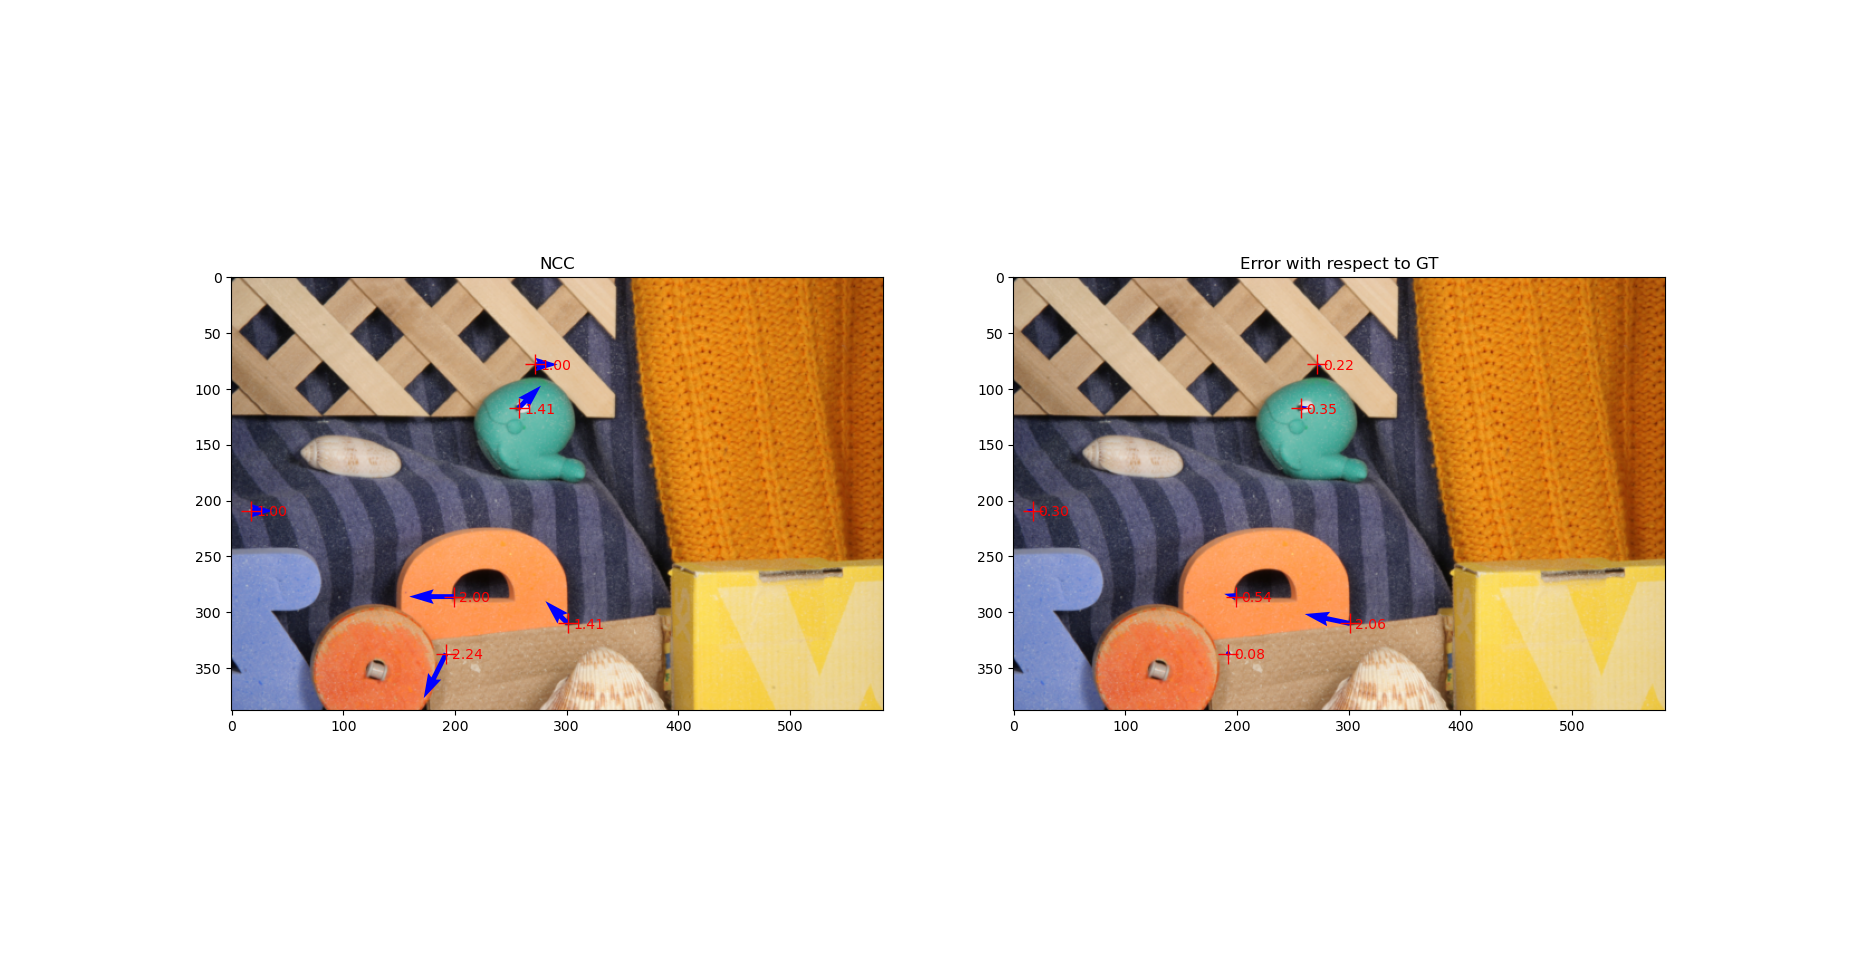
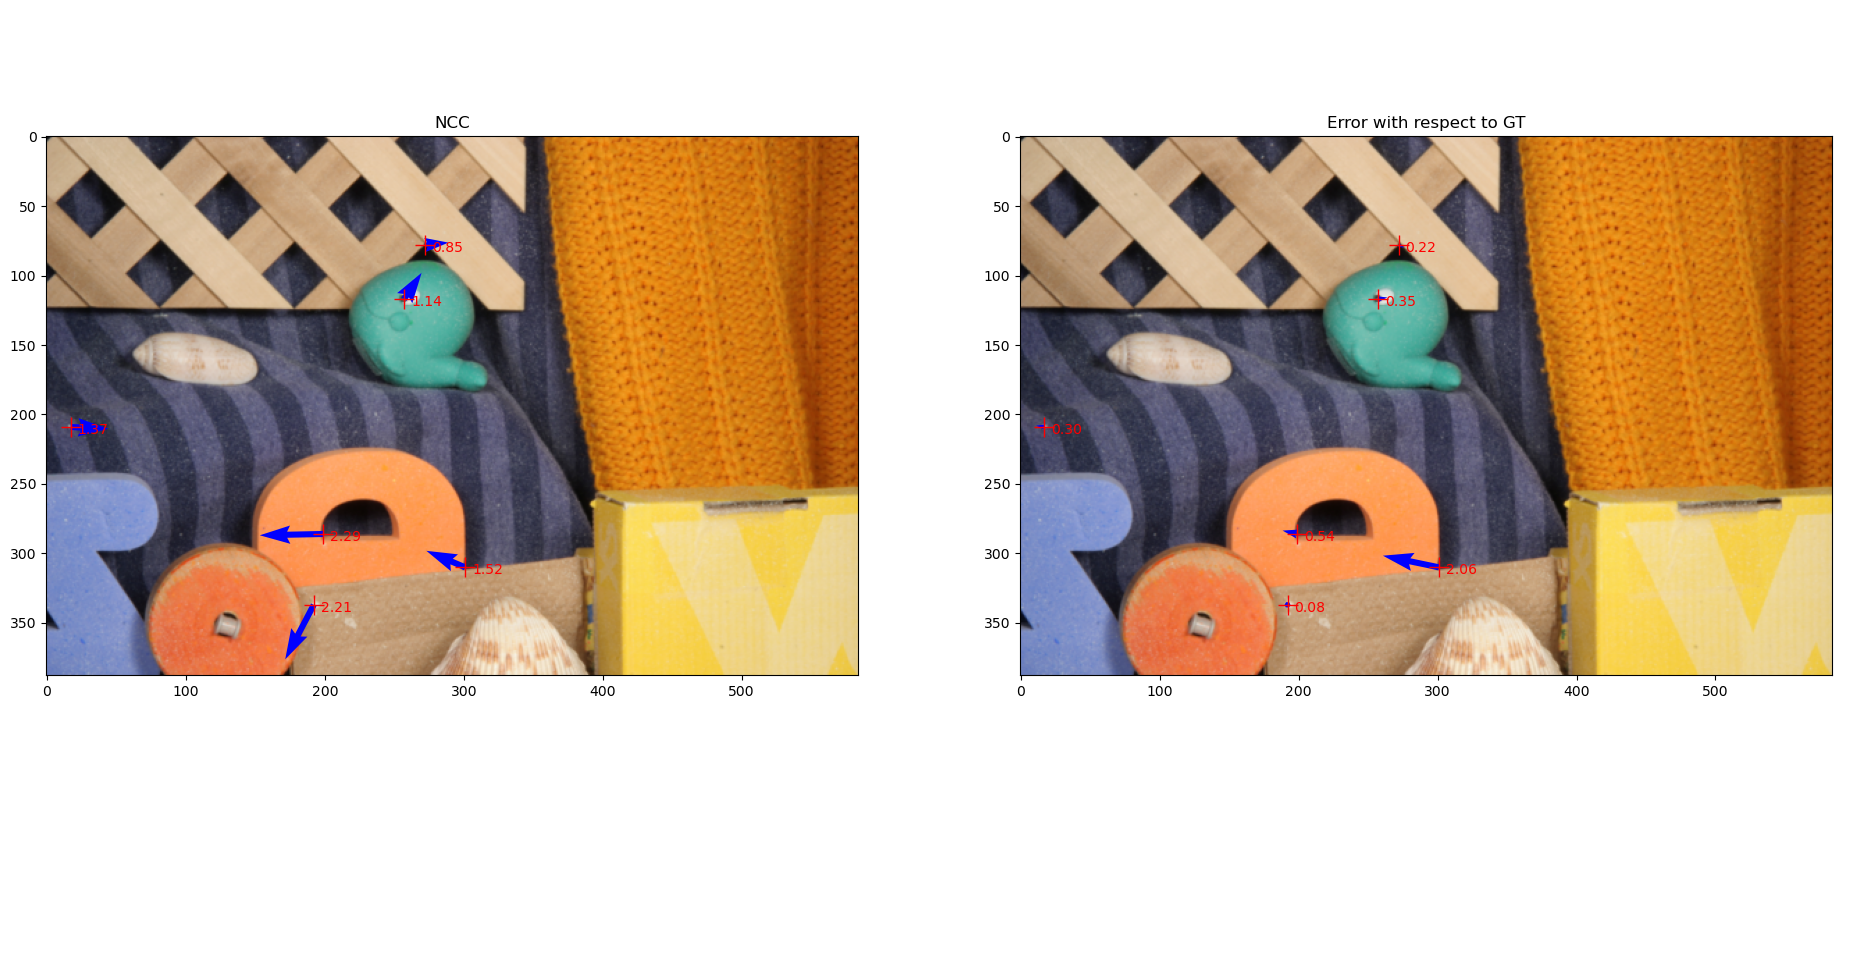
memoria

diff --git a/p6/utils/utils.py b/p6/utils/utils.py
@@ -281,6 +281,81 @@ def lucas_kanade_refinement(img1, img2, points, initial_flows, patch_half_size=5
     return refined_flows
 
 
+def lucas_kanade_subregion(img1, img2, points, initial_flows, region, patch_half_size=5, epsilon=1e-2, max_iterations=100, det_threshold=1e-5):
+    x_min, y_min, x_max, y_max = region
+    img1_sub = img1[y_min:y_max, x_min:x_max]
+    img2_sub = img2[y_min:y_max, x_min:x_max]
+
+    print("img1_sub shape:", img1_sub.shape)
+    print("img1 shape:", img1.shape)
+
+    # Gradientes de la primera imagen
+    Ix, Iy = np.gradient(img1)
+    refined_flows = np.zeros_like(initial_flows)
+    for idx, (x, y) in enumerate(points):
+        u = initial_flows[idx]
+
+        # Ignorar puntos fuera de la sub-selección
+        if not (x_min + patch_half_size <= x <= x_max - patch_half_size and y_min + patch_half_size <= y <= y_max - patch_half_size):
+            refined_flows[idx] = u
+            continue
+
+        # Convertir a coordenadas relativas a la sub-selección
+        x_rel, y_rel = x - x_min, y - y_min
+
+        # Extraer parche centrado en el punto
+        x_start, x_end = int(x_rel - patch_half_size), int(x_rel + patch_half_size + 1)
+        y_start, y_end = int(y_rel - patch_half_size), int(y_rel + patch_half_size + 1)
+
+        Ix_patch = Ix[y_start:y_end, x_start:x_end].flatten()
+        Iy_patch = Iy[y_start:y_end, x_start:x_end].flatten()
+        I0_patch = img1_sub[y_start:y_end, x_start:x_end].flatten()
+
+        # Matriz A
+        Ix2 = np.sum(Ix_patch ** 2)
+        Iy2 = np.sum(Iy_patch ** 2)
+        IxIy = np.sum(Ix_patch * Iy_patch)
+
+        A = np.array([
+            [Ix2, IxIy],
+            [IxIy, Iy2]
+        ])
+
+        # Verificar si A está mal condicionada
+        if np.linalg.det(A) < det_threshold:
+            refined_flows[idx] = u  # Conservar el flujo inicial
+            continue
+
+        # Refinamiento iterativo
+        for i in range(max_iterations):
+            x_coords, y_coords = np.meshgrid(
+                np.arange(x_start, x_end) + u[0],
+                np.arange(y_start, y_end) + u[1]
+            )
+
+            points_to_interpolate = np.vstack((y_coords.ravel(), x_coords.ravel())).T
+            I1_patch = int_bilineal(img2_sub, points_to_interpolate)
+
+            It = I1_patch - I0_patch
+
+            b = -np.array([
+                np.sum(Ix_patch * It),
+                np.sum(Iy_patch * It)
+            ])
+
+            delta_u = np.linalg.inv(A) @ b
+            u += delta_u
+
+            if np.linalg.norm(delta_u) < epsilon:
+                break
+
+        refined_flows[idx] = u
+
+    return refined_flows
+
+
+
+
 def compute_seed_flow(img1_gray, img2_gray, points_selected, template_size_half, searching_area_size):
     """
     Calcula el flujo inicial usando NCC para los puntos seleccionados.

diff --git a/p6/main.py b/p6/main.py
@@ -86,14 +86,31 @@ if __name__ == '__main__':
     ##########################################################################################
     # OPTIONAL
     ##########################################################################################
+    region = (x_min, y_min, x_max, y_max) = (50, 140, 190, 210)
+    refined_flows = utils.lucas_kanade_subregion(
+        img1=img1_gray,
+        img2=img2_gray,
+        points=points_selected,
+        initial_flows=seed_optical_flow_sparse,
+        region=region,
+        patch_half_size=5,
+        epsilon=1e-2,
+        max_iterations=100,
+        det_threshold=1e-5
+    )
+
+    img1_sub = img1[region[1]:region[3], region[0]:region[2]]
+    img2_sub = img2[region[1]:region[3], region[0]:region[2]]
+
     flow_gt_dense = utils.convert_to_dense_flow(points_selected, flow_gt, img1_gray.shape)
+    flow_gt_dense_sub = flow_gt_dense[region[1]:region[3], region[0]:region[2]]
+
     flow_refined_dense = utils.convert_to_dense_flow(points_selected, refined_flows, img1_gray.shape)
+    flow_refined_dense_sub = flow_refined_dense[region[1]:region[3], region[0]:region[2]]
+
+    flow_error_dense_sub = np.linalg.norm(flow_gt_dense_sub - flow_refined_dense_sub, axis=2)
 
     # Calcular el error denso
     flow_error_dense = utils.compute_dense_flow_error(flow_gt_dense, flow_refined_dense)
 
-    print("flow_gt_dense shape:", flow_gt_dense.shape)
-    print("flow_refined_dense shape:", flow_refined_dense.shape)
-    print("flow_error_dense shape:", flow_error_dense.shape)
-
-    plot_utils.visualize_dense_flow(img1_gray, img2_gray, flow_gt_dense, flow_refined_dense, flow_error_dense)
+    plot_utils.visualize_dense_flow(img1_sub, img2_sub, flow_gt_dense_sub, flow_refined_dense_sub, flow_error_dense_sub)

diff --git a/p6/Laboratory6.md b/p6/Laboratory6.md
@@ -1,5 +1,54 @@
 # Lab 6: Optical flow.
 
 
-## 2. 3D reconstruction from 3D calibrated stereo using fish-eyes
+## 2.1 Normalized Cross Correlation
+```python
+def seed_estimation_NCC_single_point(img1_gray, img2_gray, i_img, j_img, patch_half_size: int = 5, searching_area_size: int = 100):
+```
+Se utiliza para estimar optical flor inicial entre dos imágenes en escala de grises en un punto específico. Basado en la correlación cruzada normalizada (NCC) para encontrar la mejor coincidencia de un parche (pequeña ventana de píxeles)
+
+1. Extracción del parche de la primera imagen
+2. Definición de la región de búsqueda en la segunda imagen (mayor que el parche)
+3. Cálculo de la correlación cruzada normalizada (NCC). Que compara el parche de la primera imagen con todas las psoibles ubicaciones dentro de la región de bśuqueda
+4. Encontrar la mejor coincidencia
+5. Calculo optical flow
+
+
+## 2.2 Lucas Kanade Refinement
+```python
+def lucas_kanade_refinement(img1, img2, points, initial_flows, patch_half_size=5, epsilon=1e-2, max_iterations=100):
+```
+Se basa en la suposición de que las intensidades de los píxeles entre dos imágenes consecutivas son consistentes en pequeñas regiones de interés 
+
+`I(x,y,t)=I(x+u, y+v, t+1)`
+
+1. Gradientes de la primera imagen
+2. Inicialización de refined flows
+3. Extracción del parche centrado para cada punto (x,y)
+4. Construcción de la matriz A
+5. Refinamiento iterativo para minimizar el error de intensidad
+
+
+## 2.4 Comparations
+![NCC](result/ncc.png)
+
+
+En regiones con texturas claras, como los objetos en la parte inferior, el flujo estimado parece consistente.
+
+En áreas con menos textura o con ambigüedad, como la superficie del objeto naranja, el flujo puede ser menos preciso.
+
+Los errores son más significativos en:
+- Bordes de objetos (e.g., entre el objeto naranja y la superficie marrón), donde los cambios abruptos de intensidad dificultan la correlación precisa.
+
+
+Fortalezas: Funciona bien en áreas con texturas claras y patrones únicos.
+Debilidades: Falla en zonas homogéneas, con poca textura o patrones repetitivos, y en bordes o transiciones abruptas.
+
+
+
+![Luka Kanade](result/lk.png)
+En comparación con NCC, Lucas-Kanade parece producir flujos más precisos, especialmente en zonas de transición y bordes, gracias a su enfoque basado en gradientes locales.
+
+Lucas-Kanade muestra un rendimiento notablemente mejor en regiones complejas como bordes y transiciones, donde NCC tuvo dificultades debido a su dependencia de patrones globales.
+Sin embargo, ambas técnicas aún presentan limitaciones en áreas homogéneas o con texturas repetitivas.
 
